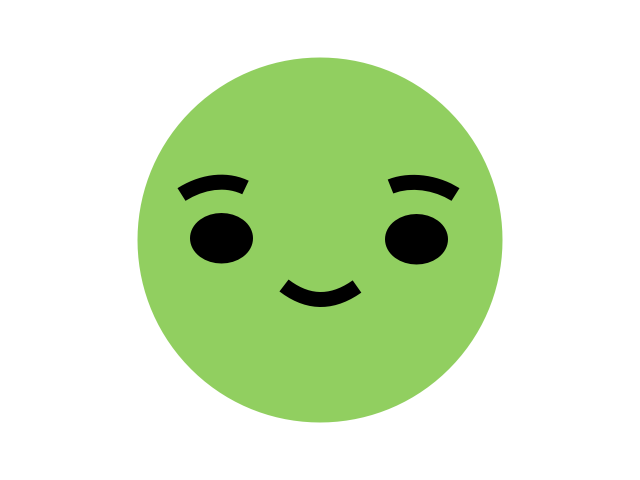
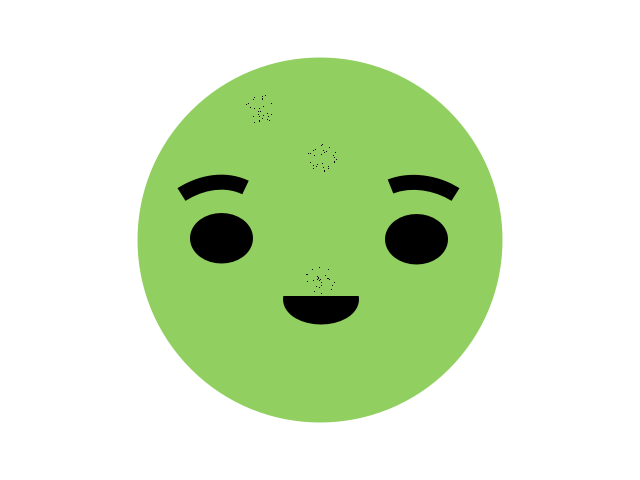
Smilis in map and info text to be linked to

Changed region(s): [[0.4375, 0.5625, 0.5625, 0.6875]]

diff --git a/infotext.html b/infotext.html
@@ -1,0 +1,1 @@
+<html><head><meta content="text/html; charset=UTF-8" http-equiv="content-type"><style type="text/css">ol.lst-kix_gj8vc6kyryta-5.start{counter-reset:lst-ctn-kix_gj8vc6kyryta-5 0}.lst-kix_gj8vc6kyryta-5>li{counter-increment:lst-ctn-kix_gj8vc6kyryta-5}.lst-kix_gj8vc6kyryta-0>li{counter-increment:lst-ctn-kix_gj8vc6kyryta-0}ol.lst-kix_gj8vc6kyryta-2.start{counter-reset:lst-ctn-kix_gj8vc6kyryta-2 0}.lst-kix_gj8vc6kyryta-6>li{counter-increment:lst-ctn-kix_gj8vc6kyryta-6}.lst-kix_gj8vc6kyryta-4>li{counter-increment:lst-ctn-kix_gj8vc6kyryta-4}.lst-kix_t7w92crh8s31-2>li:before{content:"\0025a0  "}.lst-kix_us8ovoan1207-1>li:before{content:"\0025cb  "}.lst-kix_gj8vc6kyryta-7>li{counter-increment:lst-ctn-kix_gj8vc6kyryta-7}.lst-kix_t7w92crh8s31-1>li:before{content:"\0025cb  "}.lst-kix_t7w92crh8s31-3>li:before{content:"\0025cf  "}.lst-kix_us8ovoan1207-0>li:before{content:"\0025cf  "}.lst-kix_us8ovoan1207-2>li:before{content:"\0025a0  "}.lst-kix_gj8vc6kyryta-0>li:before{content:"" counter(lst-ctn-kix_gj8vc6kyryta-0,decimal) ". "}.lst-kix_gj8vc6kyryta-1>li{counter-increment:lst-ctn-kix_gj8vc6kyryta-1}.lst-kix_gj8vc6kyryta-2>li:before{content:"" counter(lst-ctn-kix_gj8vc6kyryta-2,lower-roman) ". "}.lst-kix_t7w92crh8s31-0>li:before{content:"\0025cf  "}.lst-kix_t7w92crh8s31-4>li:before{content:"\0025cb  "}.lst-kix_gj8vc6kyryta-3>li:before{content:"" counter(lst-ctn-kix_gj8vc6kyryta-3,decimal) ". "}ol.lst-kix_gj8vc6kyryta-6.start{counter-reset:lst-ctn-kix_gj8vc6kyryta-6 0}.lst-kix_us8ovoan1207-4>li:before{content:"\0025cb  "}.lst-kix_us8ovoan1207-3>li:before{content:"\0025cf  "}.lst-kix_gj8vc6kyryta-1>li:before{content:"" counter(lst-ctn-kix_gj8vc6kyryta-1,lower-latin) ". "}.lst-kix_gj8vc6kyryta-8>li:before{content:"" counter(lst-ctn-kix_gj8vc6kyryta-8,lower-roman) ". "}ul.lst-kix_t7w92crh8s31-8{list-style-type:none}.lst-kix_gj8vc6kyryta-6>li:before{content:"" counter(lst-ctn-kix_gj8vc6kyryta-6,decimal) ". "}ul.lst-kix_t7w92crh8s31-6{list-style-type:none}ul.lst-kix_t7w92crh8s31-7{list-style-type:none}.lst-kix_gj8vc6kyryta-7>li:before{content:"" counter(lst-ctn-kix_gj8vc6kyryta-7,lower-latin) ". "}ul.lst-kix_t7w92crh8s31-4{list-style-type:none}ul.lst-kix_t7w92crh8s31-5{list-style-type:none}.lst-kix_gj8vc6kyryta-4>li:before{content:"" counter(lst-ctn-kix_gj8vc6kyryta-4,lower-latin) ". "}ul.lst-kix_t7w92crh8s31-2{list-style-type:none}ul.lst-kix_t7w92crh8s31-3{list-style-type:none}ol.lst-kix_gj8vc6kyryta-3.start{counter-reset:lst-ctn-kix_gj8vc6kyryta-3 0}ul.lst-kix_t7w92crh8s31-0{list-style-type:none}ul.lst-kix_t7w92crh8s31-1{list-style-type:none}.lst-kix_gj8vc6kyryta-5>li:before{content:"" counter(lst-ctn-kix_gj8vc6kyryta-5,lower-roman) ". "}ol.lst-kix_gj8vc6kyryta-0{list-style-type:none}.lst-kix_gj8vc6kyryta-8>li{counter-increment:lst-ctn-kix_gj8vc6kyryta-8}ol.lst-kix_gj8vc6kyryta-0.start{counter-reset:lst-ctn-kix_gj8vc6kyryta-0 0}.lst-kix_gj8vc6kyryta-3>li{counter-increment:lst-ctn-kix_gj8vc6kyryta-3}.lst-kix_us8ovoan1207-8>li:before{content:"\0025a0  "}.lst-kix_gj8vc6kyryta-2>li{counter-increment:lst-ctn-kix_gj8vc6kyryta-2}.lst-kix_t7w92crh8s31-8>li:before{content:"\0025a0  "}ol.lst-kix_gj8vc6kyryta-8{list-style-type:none}.lst-kix_t7w92crh8s31-6>li:before{content:"\0025cf  "}.lst-kix_us8ovoan1207-5>li:before{content:"\0025a0  "}ol.lst-kix_gj8vc6kyryta-7{list-style-type:none}ol.lst-kix_gj8vc6kyryta-6{list-style-type:none}.lst-kix_t7w92crh8s31-5>li:before{content:"\0025a0  "}.lst-kix_t7w92crh8s31-7>li:before{content:"\0025cb  "}.lst-kix_us8ovoan1207-6>li:before{content:"\0025cf  "}ol.lst-kix_gj8vc6kyryta-5{list-style-type:none}ol.lst-kix_gj8vc6kyryta-4{list-style-type:none}.lst-kix_us8ovoan1207-7>li:before{content:"\0025cb  "}ol.lst-kix_gj8vc6kyryta-3{list-style-type:none}ol.lst-kix_gj8vc6kyryta-2{list-style-type:none}ol.lst-kix_gj8vc6kyryta-1{list-style-type:none}ol.lst-kix_gj8vc6kyryta-7.start{counter-reset:lst-ctn-kix_gj8vc6kyryta-7 0}ol.lst-kix_gj8vc6kyryta-4.start{counter-reset:lst-ctn-kix_gj8vc6kyryta-4 0}ol.lst-kix_gj8vc6kyryta-1.start{counter-reset:lst-ctn-kix_gj8vc6kyryta-1 0}ol.lst-kix_gj8vc6kyryta-8.start{counter-reset:lst-ctn-kix_gj8vc6kyryta-8 0}ul.lst-kix_us8ovoan1207-7{list-style-type:none}ul.lst-kix_us8ovoan1207-6{list-style-type:none}ul.lst-kix_us8ovoan1207-8{list-style-type:none}ul.lst-kix_us8ovoan1207-1{list-style-type:none}ul.lst-kix_us8ovoan1207-0{list-style-type:none}ul.lst-kix_us8ovoan1207-3{list-style-type:none}ul.lst-kix_us8ovoan1207-2{list-style-type:none}ul.lst-kix_us8ovoan1207-5{list-style-type:none}ul.lst-kix_us8ovoan1207-4{list-style-type:none}ol{margin:0;padding:0}table td,table th{padding:0}.c4{margin-left:36pt;padding-top:0pt;padding-left:0pt;padding-bottom:0pt;line-height:1.15;orphans:2;widows:2;text-align:left}.c8{padding-top:0pt;padding-bottom:0pt;line-height:1.15;orphans:2;widows:2;text-align:left;height:11pt}.c6{padding-top:18pt;padding-bottom:6pt;line-height:1.15;page-break-after:avoid;orphans:2;widows:2;text-align:left}.c2{color:#000000;font-weight:400;text-decoration:none;vertical-align:baseline;font-family:"Arial";font-style:normal}.c11{padding-top:0pt;padding-bottom:0pt;line-height:1.15;orphans:2;widows:2;text-align:left}.c7{text-decoration-skip-ink:none;-webkit-text-decoration-skip:none;color:#1155cc;text-decoration:underline}.c0{background-color:#ffffff;font-size:10.5pt;font-weight:700}.c3{background-color:#ffffff;max-width:451.4pt;padding:72pt 72pt 72pt 72pt}.c10{color:inherit;text-decoration:inherit}.c1{background-color:#ffffff;font-size:10.5pt}.c9{padding:0;margin:0}.c5{font-size:16pt}.c12{font-size:11pt}.title{padding-top:0pt;color:#000000;font-size:26pt;padding-bottom:3pt;font-family:"Arial";line-height:1.15;page-break-after:avoid;orphans:2;widows:2;text-align:left}.subtitle{padding-top:0pt;color:#666666;font-size:15pt;padding-bottom:16pt;font-family:"Arial";line-height:1.15;page-break-after:avoid;orphans:2;widows:2;text-align:left}li{color:#000000;font-size:11pt;font-family:"Arial"}p{margin:0;color:#000000;font-size:11pt;font-family:"Arial"}h1{padding-top:20pt;color:#000000;font-size:20pt;padding-bottom:6pt;font-family:"Arial";line-height:1.15;page-break-after:avoid;orphans:2;widows:2;text-align:left}h2{padding-top:18pt;color:#000000;font-size:16pt;padding-bottom:6pt;font-family:"Arial";line-height:1.15;page-break-after:avoid;orphans:2;widows:2;text-align:left}h3{padding-top:16pt;color:#434343;font-size:14pt;padding-bottom:4pt;font-family:"Arial";line-height:1.15;page-break-after:avoid;orphans:2;widows:2;text-align:left}h4{padding-top:14pt;color:#666666;font-size:12pt;padding-bottom:4pt;font-family:"Arial";line-height:1.15;page-break-after:avoid;orphans:2;widows:2;text-align:left}h5{padding-top:12pt;color:#666666;font-size:11pt;padding-bottom:4pt;font-family:"Arial";line-height:1.15;page-break-after:avoid;orphans:2;widows:2;text-align:left}h6{padding-top:12pt;color:#666666;font-size:11pt;padding-bottom:4pt;font-family:"Arial";line-height:1.15;page-break-after:avoid;font-style:italic;orphans:2;widows:2;text-align:left}</style></head><body class="c3"><h2 class="c6" id="h.6i2ym6ci0wz9"><span class="c2 c5">Information about the page</span></h2><p class="c11"><span>In the map you can see the world happiness score in different country at a given year. The data is based on the </span><span class="c7"><a class="c10" href="https://www.google.com/url?q=http://worldhappiness.report&amp;sa=D&amp;ust=1551887944144000">world happiness report</a></span><span>&nbsp;which has been published every year since 2012. More information and the dataset for 2015-2017 can be found </span><span class="c7"><a class="c10" href="https://www.google.com/url?q=https://www.kaggle.com/unsdsn/world-happiness%232015.csv&amp;sa=D&amp;ust=1551887944144000">here</a></span><span>. </span></p><p class="c8"><span class="c1 c2"></span></p><p class="c11"><span class="c1">The happiness score is on this page extended with data from </span><span class="c7 c1"><a class="c10" href="https://www.google.com/url?q=https://www.gapminder.org&amp;sa=D&amp;ust=1551887944145000">Gapminder</a></span><span class="c2 c1">&nbsp;for the same year, which has been assembled by us. These variables can be explored in the parallel coordinates.</span></p><p class="c8"><span class="c2 c1"></span></p><p class="c8"><span class="c2 c1"></span></p><p class="c11"><span class="c2 c1">Enjoy! &nbsp;:) </span></p><p class="c8"><span class="c2 c1"></span></p><p class="c11"><span class="c2 c12">Authors: Emma Broman and Ingela Rossing</span></p><p class="c8"><span class="c2 c12"></span></p><h2 class="c6" id="h.lny33pz7vidh"><span class="c2 c5">What is the happiness score?</span></h2><p class="c11"><span class="c1">The happiness scores and rankings use data from the Gallup World Poll. The scores are based on answers to the main life evaluation question asked in the poll. This question, known as the Cantril ladder, asks respondents to think of a ladder with the best possible life for them being a 10 and the worst possible life being a 0 and to rate their own current lives on that scale. The scores are from nationally representative samples for the years 2013-2016 and use the Gallup weights to make the estimates representative. <br><br></span><span class="c1">In July 2011, the </span><span class="c1"><a class="c10" href="https://www.google.com/url?q=https://en.wikipedia.org/wiki/UN_General_Assembly&amp;sa=D&amp;ust=1551887944146000">UN General Assembly</a></span><span class="c1">&nbsp;adopted resolution 65/309 </span><span class="c1">Happiness: Towards a Holistic Definition of Developmen</span><span class="c1">t</span><span class="c1">&nbsp;</span><span class="c1">inviting member countries to measure the happiness of their people and to use the data to help guide public policy. The score has gained a good reputation and the nation </span><span class="c1"><a class="c10" href="https://www.google.com/url?q=https://en.wikipedia.org/wiki/Bhutan&amp;sa=D&amp;ust=1551887944147000">Bhutan</a></span><span class="c1">&nbsp;adopted their main development indicator as </span><span class="c1"><a class="c10" href="https://www.google.com/url?q=https://en.wikipedia.org/wiki/Gross_national_happiness&amp;sa=D&amp;ust=1551887944147000">gross national happiness</a></span><span class="c1">&nbsp;instead of </span><span class="c1"><a class="c10" href="https://www.google.com/url?q=https://en.wikipedia.org/wiki/Gross_domestic_product&amp;sa=D&amp;ust=1551887944147000">gross domestic product</a></span><span class="c2 c1">. </span></p><p class="c8"><span class="c2 c1"></span></p><h2 class="c6" id="h.ejq2m39glvrd"><span class="c2 c5">About the star plot data</span></h2><p class="c11"><span class="c2 c1">The world happiness report includes an estimate of the extent to which each of six factors contribute to the happiness score. They have no impact on the total score reported for each country, but they do explain why some countries rank higher than others. </span></p><p class="c8"><span class="c2 c1"></span></p><ol class="c9 lst-kix_gj8vc6kyryta-0 start" start="1"><li class="c4"><span class="c0">Economy</span><span class="c2 c1"><br>GDP per capita is in terms of Purchasing Power Parity (PPP) adjusted to constant 2011 international dollars, taken from the World Development Indicators (WDI) released by the World Bank in November 2014. See the appendix for more details. GDP data for 2014 are not yet available, so we extend the GDP time series from 2013 to 2014 using countryspecific forecasts of real GDP growth from the OECD Economic Outlook (May 2014 release) for OECD countries, and the World Bank&rsquo;s Global Economic Prospects (June 2014 release) for the rest of the world, after adjustment for population growth. The equation uses the natural log of GDP per capita, since that form fits the data significantly better than does GDP per capita. </span></li><li class="c4"><span class="c0">Family</span><span class="c2 c1"><br>Social support (or having someone to count on in times of trouble) is the national average of the binary responses (either 0 or 1) to the Gallup World Poll (GWP) question &ldquo;If you were in trouble, do you have relatives or friends you can count on to help you whenever you need them, or not?&rdquo; </span></li><li class="c4"><span class="c0">Health</span><span class="c2 c1"><br>The time series of healthy life expectancy at birth are constructed based on data from the World Health Organization (WHO) and the World Development Indicators (WDI). The WHO publishes the data on healthy life expectancy for the year 2012. The time series of life expectancies, with no adjustment for health, are available in the WDI. We adopt the following strategy to construct the time series of healthy life expectancy at birth: first we generate the ratios of healthy life expectancy to life expectancy in 2012 for countries with both data. We then apply the country-specific ratios to other years to generate the healthy life expectancy data. </span></li><li class="c4"><span class="c0">Freedom</span><span class="c2 c1"><br>Freedom to make life choices is the national average of binary responses to the GWP question &ldquo;Are you satisfied or dissatisfied with your freedom to choose what you do with your life?&rdquo; </span></li><li class="c4"><span class="c0">Generosity</span><span class="c2 c1"><br>Generosity is the residual of regressing the national average of GWP responses to the question &ldquo;Have you donated money to a charity in the past month?&rdquo; on GDP per capita.</span></li><li class="c4"><span class="c0">Trust / absence of corruption</span><span class="c2 c1"><br>Perceptions of corruption are the average of binary answers to two GWP questions: &ldquo;Is corruption widespread throughout the government or not?&rdquo; and &ldquo;Is corruption widespread within businesses or not?&rdquo; Where data for government corruption are missing, the perception of business corruption is used as the overall corruption-perception measure.</span></li><li class="c4"><span class="c0">Dystopia Residual</span><span class="c1"><br>Dystopia is a made up country that represents the worst case and acts as a reference point. The </span><span class="c1">Dystopia Residual metric </span><span class="c2 c1">actually is the Dystopia Happiness Score(1.85) + the Residual value or the unexplained value for each country. <br></span></li></ol><p class="c8"><span class="c2 c1"></span></p><p class="c11"><span class="c2 c1">If you add all these factors up, you get the happiness score so it might be unreliable to model them to predict Happiness Scores.</span></p><p class="c8"><span class="c2 c1"></span></p><h2 class="c6" id="h.w2tq361st4vl"><span class="c2 c5">About the parallel coordinates</span></h2><p class="c11"><span class="c2 c1">More factors that can be compared to the happiness score are shown as one axis each in the parallel coordinates diagram. Each country is represented by one line and intersects each axis at corresponding value. </span></p><p class="c8"><span class="c2 c1"></span></p><p class="c11"><span class="c2 c1">OBS: For some countries data for a specific dimension can be missing! It will then pass through zero on that axis</span></p><p class="c8"><span class="c2 c1"></span></p><p class="c11"><span class="c2 c1">Brushing: To filter and focus on trends, drag on optional axis. </span></p><p class="c8"><span class="c2 c1"></span></p><p class="c11"><span class="c2 c1">Order of the axises can be changed by dragging the label.</span></p></body></html>

diff --git a/js/worldmap.js b/js/worldmap.js
@@ -52,6 +52,8 @@ function worldMap(data, color, key_score, key_rank){
 
     // To format happiness score :)
     var format = d3.format(".3n");
+    
+
 
     // Function for setting tooltips
     var tip = d3.tip()
@@ -59,6 +61,7 @@ function worldMap(data, color, key_score, key_rank){
         .offset([-10, 0])
         .html(function(d) {
             return "<strong><span class='details'>" + d.properties.name + "</span></strong>" 
+                + "<span class='details'> <img src=icons/emoji" + emojinr(d[key_score]) + ".png height='42'></span>"
                 + "<br>"
                 + "Happiness Score: <span class='details'>"  + format(d[key_score]) +"</span>"
                 + "<br>"
@@ -159,3 +162,16 @@ function worldMap(data, color, key_score, key_rank){
     }
 
 } // end of worldMap
+
+
+// To choose emoji using rank
+function emojinr(d){
+    var nr = d3.scaleThreshold()
+    .domain([3.0,4.0,5.0,6.0,7.0]) //TODO: get domain from color variable insted!
+    .range(['1','2','3','4','5','6']); 
+
+    if(nr(d))
+        return nr(d);
+    else
+        return "X"
+}

diff --git a/js/pc.js b/js/pc.js
@@ -46,7 +46,7 @@ function pc(data, colorpalette, key){
     //create as many axes as there are keys in the dataset 
     //Scale,domain and range for each axes. 
     xScale.domain(dimensions = d3.keys(data[0]).filter(function (d) {
-        return !excludedDims.includes(d) && (yScale[d] = d3.scaleLinear()
+        return !excludedDims.includes(d) && !happyDims.includes(d) && (yScale[d] = d3.scaleLinear()
             .domain(d3.extent(data, function (p) { return +p[d]; }))
             .range([height, 0])
         );
